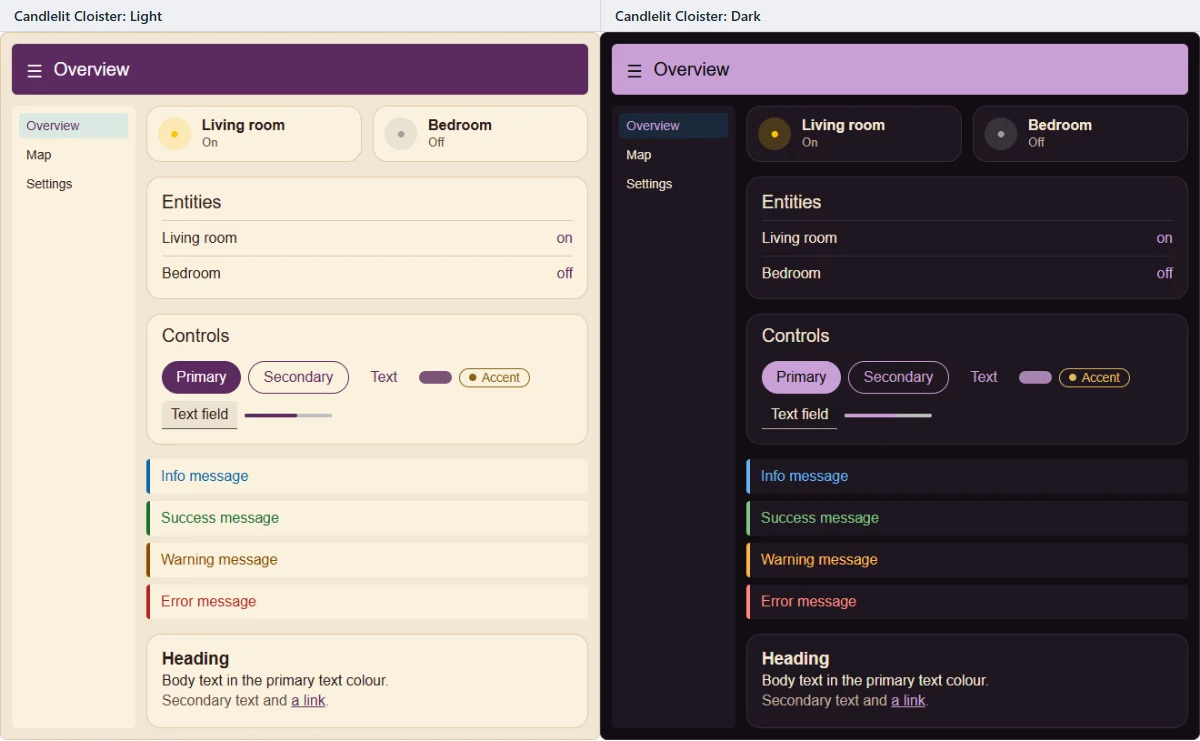
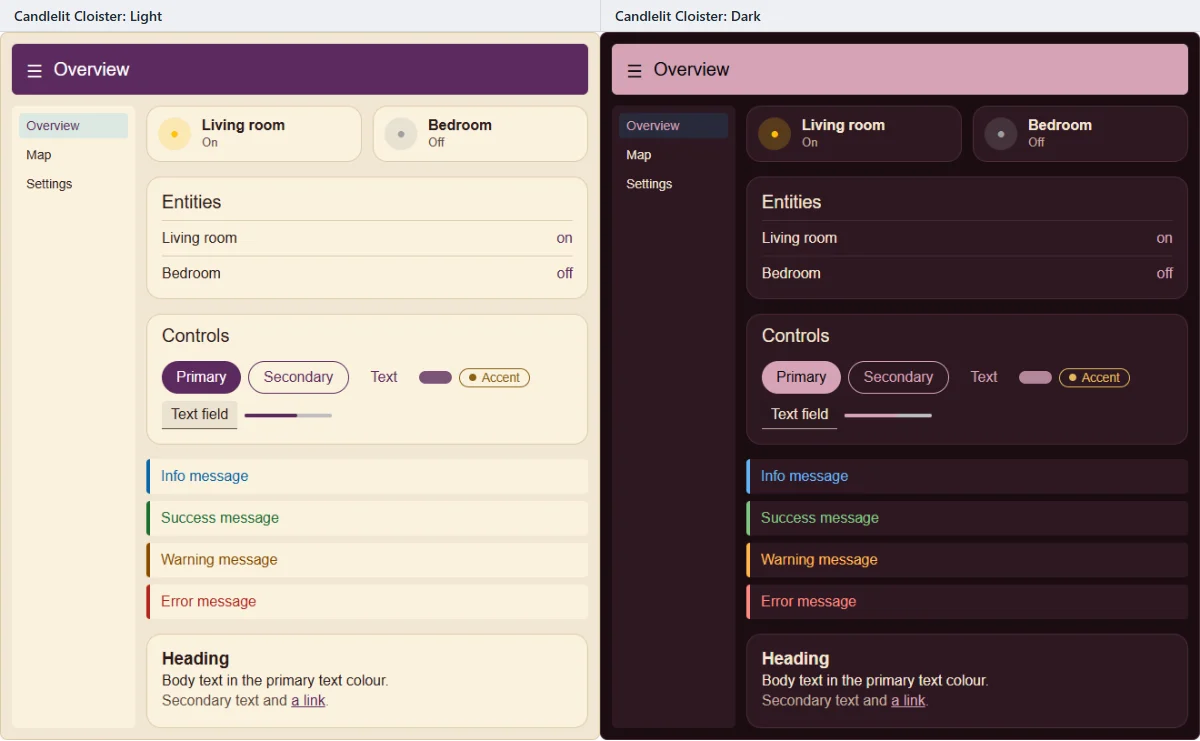
six Sci-fi & fantasy presets get their own colours so no two look alike (Orbital Smelter, Ashen Keep, Crimson Pines, Dust Duel, Ochre Basin, Candlelit Cloister)

Changed region(s): [[0.4933, 0.0621, 1.0, 0.1242], [0.6167, 0.4656, 0.7092, 0.5277]]

diff --git a/src/theme-editor/presets/library.ts b/src/theme-editor/presets/library.ts
@@ -185,14 +185,14 @@ const PRESETS: ThemePreset[] = [
[18 lines of base64/hex data omitted]
 ];
 

diff --git a/documentation/themes/examples/README.md b/documentation/themes/examples/README.md
@@ -367,7 +367,7 @@ Off-white panels, burnt orange accent: navy ink by day, denim blue at night.
 
 ## Dust Duel
 
-Desert sand with a red accent: indigo blue by day, sand-gold by night.
+Red-clay desert, indigo header, red accent; sand-gold by night.
 
 ![Dust Duel preview, light and dark modes side by side](images/dust-duel.webp)
 
@@ -391,25 +391,25 @@ Sun-baked ochre by day; at night an ochre glow on deep indigo.
 
 ## Orbital Smelter
 
-Industrial steel blue-grey with a safety orange accent.
+Furnace-brown header on gunmetal steel with a coolant-cyan accent.
 
 ![Orbital Smelter preview, light and dark modes side by side](images/orbital-smelter.webp)
 
 ## Ashen Keep
 
-Grey stone and iron with one deep red accent, calm and wintry.
+Charcoal iron and pale limestone with one deep red accent, calm and wintry.
 
 ![Ashen Keep preview, light and dark modes side by side](images/ashen-keep.webp)
 
 ## Candlelit Cloister
 
-Plum and old gold on parchment; plum-black at night.
+Plum and old gold on parchment; wine-black at night.
 
 ![Candlelit Cloister preview, light and dark modes side by side](images/candlelit-cloister.webp)
 
 ## Crimson Pines
 
-Cold steel blue-grey with a red accent under a dark pine forest.
+Oxblood red over a dark pine forest, moss-green panels, green-black nights.
 
 ![Crimson Pines preview, light and dark modes side by side](images/crimson-pines.webp)
 

diff --git a/CHANGELOG.md b/CHANGELOG.md
@@ -4,6 +4,11 @@ All notable changes to Magic Card. Dates are release dates (UTC). Detailed docum
 
 Magic Card uses calendar versions: year, month and a release number within the month.
 
+## Unreleased
+
+### Changed
+-   Six Sci-fi & fantasy presets got their own colours so they no longer look alike: Orbital Smelter, Ashen Keep and Crimson Pines were nearly the same, and Dust Duel, Ochre Basin and Candlelit Cloister were close to their neighbours. The preset ids and names are unchanged. Themes you already created from these presets stay as they were.
+
 ## 2026.10.09 (2026-10-17)
 
 Twelve sci-fi and fantasy presets for the theme editor, twenty sci-fi and fantasy cards in the gallery, and a fix for imported themes that lost their light and dark values. A release still has ten files.
